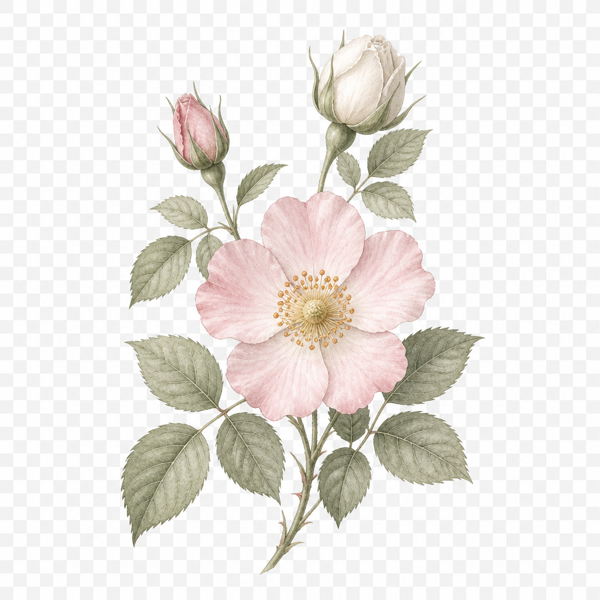
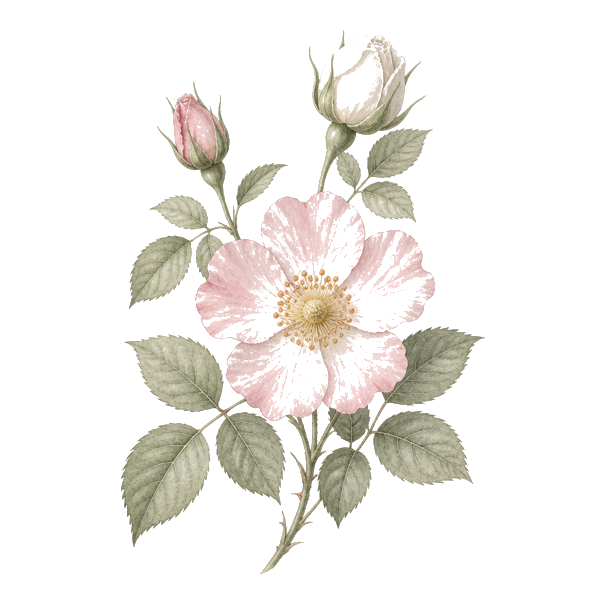
Fix fountain opener, restore names, and clean decor
Soften the over-zoomed blurry opener, put Lavinia & Jon fonts back
on the fountain at the start, keep the names block under Sted, make
the botanical rose transparent, and tighten program sprig décor.

Changed region(s): [[0.33, 0.3, 0.72, 0.69], [0.51, 0.06, 0.66, 0.21], [0.66, 0.09, 0.69, 0.12]]

diff --git a/jon-lavinia/index.html b/jon-lavinia/index.html
@@ -5,7 +5,7 @@
 <meta name="viewport" content="width=device-width, initial-scale=1.0, viewport-fit=cover">
 <meta name="description" content="Bryllupsinvitasjon — Lavinia & Jon, 17. juli 2027, Bjellandstrand gård Tromøya">
 <title>Lavinia & Jon</title>
-<meta name="theme-revision" content="fountain-first-20260804">
+<meta name="theme-revision" content="fountain-fonts-20260804">
 
 <link rel="preconnect" href="https://fonts.googleapis.com">
 <link rel="preconnect" href="https://fonts.gstatic.com" crossorigin>
@@ -317,13 +317,13 @@ const CONFIG = {
 
   .hero-media{ position:absolute; top:0; bottom:0; left:50%; transform:translateX(-50%);
     width:var(--hero-w); z-index:0; overflow:hidden; }
-  .hero-motion{ position:absolute; inset:0; opacity:0; transform:scale(1.22);
-    transition:opacity 1.2s ease .45s, transform 12s ease .45s; }
-  body.invitation-open .hero-motion{ opacity:1; transform:scale(1.12); }
+  .hero-motion{ position:absolute; inset:0; opacity:0; transform:scale(1.06);
+    transition:opacity 1.2s ease .45s, transform 10s ease .45s; }
+  body.invitation-open .hero-motion{ opacity:1; transform:scale(1); }
 
-  /* Zoom inn på fontenen i hagen (ikke hele fasaden) */
+  /* Fontenen i hagen i fokus — skarp, ikke overzoomet */
   .hero-video,.hero-bg{ position:absolute; inset:0; width:100%; height:100%; object-fit:cover;
-    object-position:48% 72%; }
+    object-position:50% 58%; }
   .hero-bg{ z-index:0; }
   .hero-video{ z-index:1; }
 
@@ -418,26 +418,50 @@ const CONFIG = {
   }
 
   .hero-veil,.fountain-veil{ position:absolute; inset:0; z-index:4; pointer-events:none;
-    background:linear-gradient(180deg, rgba(26,32,24,.35) 0%, transparent 32%, transparent 58%,
-      rgba(243,238,228,.55) 88%, var(--cream) 98%); }
+    background:
+      radial-gradient(ellipse 70% 42% at 50% 38%, rgba(243,238,228,.5) 0%, transparent 70%),
+      linear-gradient(180deg, rgba(26,32,24,.28) 0%, transparent 26%, transparent 58%,
+      rgba(243,238,228,.5) 86%, var(--cream) 97%); }
+
+  /* Fontene / navn over fontenen (helt i starten) */
+  .hero-stage{ position:absolute; inset:0; z-index:6; pointer-events:none; }
+  .hero-content{ position:absolute; top:38%; left:50%; transform:translate(-50%,-50%);
+    width:min(78vw,300px); text-align:center; padding:1rem .85rem 1.15rem;
+    background:radial-gradient(ellipse 80% 75% at 50% 48%, rgba(243,238,228,.9) 0%, rgba(243,238,228,.58) 52%, transparent 80%);
+    border-radius:10px; }
+  .fountain-open .hero-label{ font-family:var(--display); font-size:.7rem; letter-spacing:.32em; text-transform:uppercase;
+    color:var(--ink-muted); margin-bottom:.2rem; opacity:0; }
+  .fountain-open .hero-date-short{ font-family:var(--display); font-size:clamp(.92rem,3vw,1.1rem);
+    color:var(--charcoal); letter-spacing:.12em; margin-bottom:.55rem; opacity:0; }
+  body.invitation-open .fountain-open .hero-label{ animation:fadeUp .7s ease .55s forwards; }
+  body.invitation-open .fountain-open .hero-date-short{ animation:fadeUp .7s ease .68s forwards; }
+  .fountain-open .hero-names{ display:flex; flex-direction:column; align-items:center; gap:0; line-height:1.02; }
+  .fountain-open .hero-name,.fountain-open .hero-amp{ font-family:var(--script); color:var(--moss-deep); opacity:0; transform:translateY(16px);
+    text-shadow:0 1px 0 rgba(243,238,228,.9), 0 2px 12px rgba(243,238,228,.85), 0 0 28px rgba(243,238,228,.7); }
+  .fountain-open .hero-name{ font-size:clamp(2.35rem,10.5vw,3.6rem); }
+  .fountain-open .hero-amp{ font-size:clamp(1.25rem,4.5vw,1.8rem); color:var(--taupe); margin:.04em 0; }
+  body.invitation-open .fountain-open .hero-name:nth-child(1){ animation:fadeUp .85s ease .82s forwards; }
+  body.invitation-open .fountain-open .hero-amp{ animation:fadeUp .85s ease .98s forwards; }
+  body.invitation-open .fountain-open .hero-name:nth-child(3){ animation:fadeUp .85s ease 1.14s forwards; }
+  @keyframes fadeUp{ to{ opacity:1; transform:none; } }
 
   .scroll-cue{ position:absolute; bottom:max(1.8rem, calc(env(safe-area-inset-bottom) + 1.2rem));
     left:50%; transform:translateX(-50%);
-    z-index:6; color:rgba(243,238,228,.92); font-family:var(--display); font-size:.62rem;
+    z-index:6; color:rgba(74,69,63,.85); font-family:var(--display); font-size:.62rem;
     letter-spacing:.24em; text-transform:uppercase; text-decoration:none; opacity:0; pointer-events:auto;
-    text-shadow:0 2px 12px rgba(0,0,0,.45); }
-  body.invitation-open .scroll-cue{ animation:fadeUpCenter .7s ease 1.1s forwards, bob 2.2s ease 1.8s infinite; }
+    text-shadow:0 1px 8px rgba(243,238,228,.75); }
+  body.invitation-open .scroll-cue{ animation:fadeUpCenter .7s ease 1.35s forwards, bob 2.2s ease 2s infinite; }
   @keyframes fadeUpCenter{ to{ opacity:1; transform:translateX(-50%); } }
   @keyframes bob{ 0%,100%{transform:translateX(-50%) translateY(0)} 50%{transform:translateX(-50%) translateY(5px)} }
   .scroll-cue::after{ content:"⌄"; display:block; font-size:1rem; margin-top:.15rem; }
 
   /* ── NAVN / HERO under Sted ───────────────────────── */
-  .names-hero{ text-align:center; padding:3.2rem 1.2rem 3.4rem;
+  .names-hero{ text-align:center; padding:2.8rem 1.2rem 3rem;
     background:
-      radial-gradient(ellipse 80% 55% at 50% 0%, rgba(168,181,154,.18), transparent 70%),
+      radial-gradient(ellipse 80% 55% at 50% 0%, rgba(168,181,154,.16), transparent 70%),
       linear-gradient(180deg, var(--cream) 0%, #ebe4d6 48%, var(--cream) 100%);
-    border-top:1px solid rgba(138,123,108,.14);
-    border-bottom:1px solid rgba(138,123,108,.14); }
+    border-top:1px solid rgba(138,123,108,.12);
+    border-bottom:1px solid rgba(138,123,108,.12); }
   .names-hero .hero-label{ font-family:var(--display); font-size:.72rem; letter-spacing:.32em; text-transform:uppercase;
     color:var(--ink-muted); margin-bottom:.35rem; }
   .names-hero .hero-date-short{ font-family:var(--display); font-size:clamp(.95rem,3vw,1.15rem);
@@ -459,7 +483,6 @@ const CONFIG = {
   .names-hero .reveal.in .hero-name:nth-child(1){ animation-delay:.28s; }
   .names-hero .reveal.in .hero-amp{ animation-delay:.4s; }
   .names-hero .reveal.in .hero-name:nth-child(3){ animation-delay:.52s; }
-  @keyframes fadeUp{ to{ opacity:1; transform:none; } }
 
   .torn-top,.torn-bottom{ position:relative; height:28px; width:100%; z-index:6; pointer-events:none; }
   .fountain-open > .torn-bottom{ position:absolute; bottom:0; left:0; right:0; }
@@ -665,7 +688,9 @@ const CONFIG = {
     body.invitation-open #roseRight{ transform:scaleX(-1); }
     body.invitation-open .hero-motion{ opacity:1; transform:none; }
     .reveal,.tl-item,.names-hero .hero-label,.names-hero .hero-date-short,
-    .names-hero .hero-name,.names-hero .hero-amp{ opacity:1; transform:none; animation:none !important; }
+    .names-hero .hero-name,.names-hero .hero-amp,
+    .fountain-open .hero-label,.fountain-open .hero-date-short,
+    .fountain-open .hero-name,.fountain-open .hero-amp{ opacity:1; transform:none; animation:none !important; }
     .timeline::before{ transform:translateX(-50%) scaleY(1); }
     .timeline.show .tl-item{ animation:none; opacity:1; transform:none; }
     .petal,.spark,.gate-bloom,.gate-vines img,.hero-blossoms span{ display:none !important; }
@@ -737,6 +762,13 @@ const CONFIG = {
         </div>
       </div>
       <div class="hero-veil fountain-veil"></div>
+    </div>
+    <div class="hero-stage">
+      <div class="hero-content">
+        <p class="hero-label" id="openLabel"></p>
+        <p class="hero-date-short" id="openDateShort"></p>
+        <div class="hero-names" id="openNames"></div>
+      </div>
     </div>
     <a href="#intro" class="scroll-cue" id="scrollCue"></a>
     <div class="torn-bottom"></div>
@@ -981,6 +1013,12 @@ const CONFIG = {
     $("coverTap").textContent = T.coverTap;
     $("sealInitials").textContent = CONFIG.initials;
 
+    $("openLabel").textContent = T.eyebrow || T.weddingDay;
+    $("openDateShort").textContent = fmtDateShort();
+    $("openNames").innerHTML =
+      `<span class="hero-name">${CONFIG.nameFirst}</span>`+
+      `<span class="hero-amp">&</span>`+
+      `<span class="hero-name">${CONFIG.nameSecond}</span>`;
     $("heroLabel").textContent = T.eyebrow || T.weddingDay;
     $("heroDateShort").textContent = fmtDateShort();
     $("heroNames").innerHTML =
